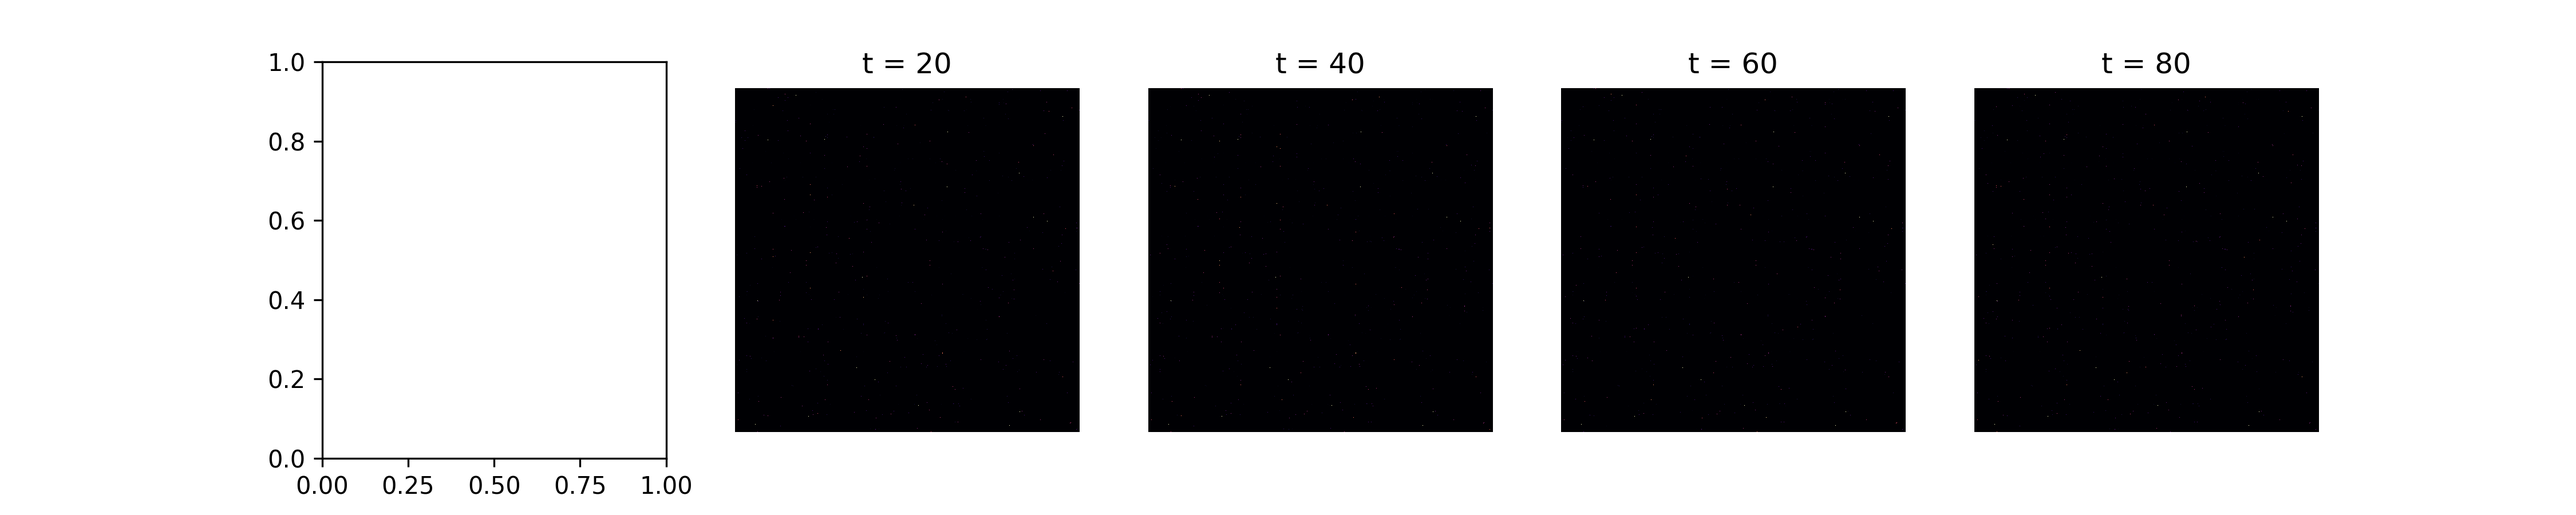
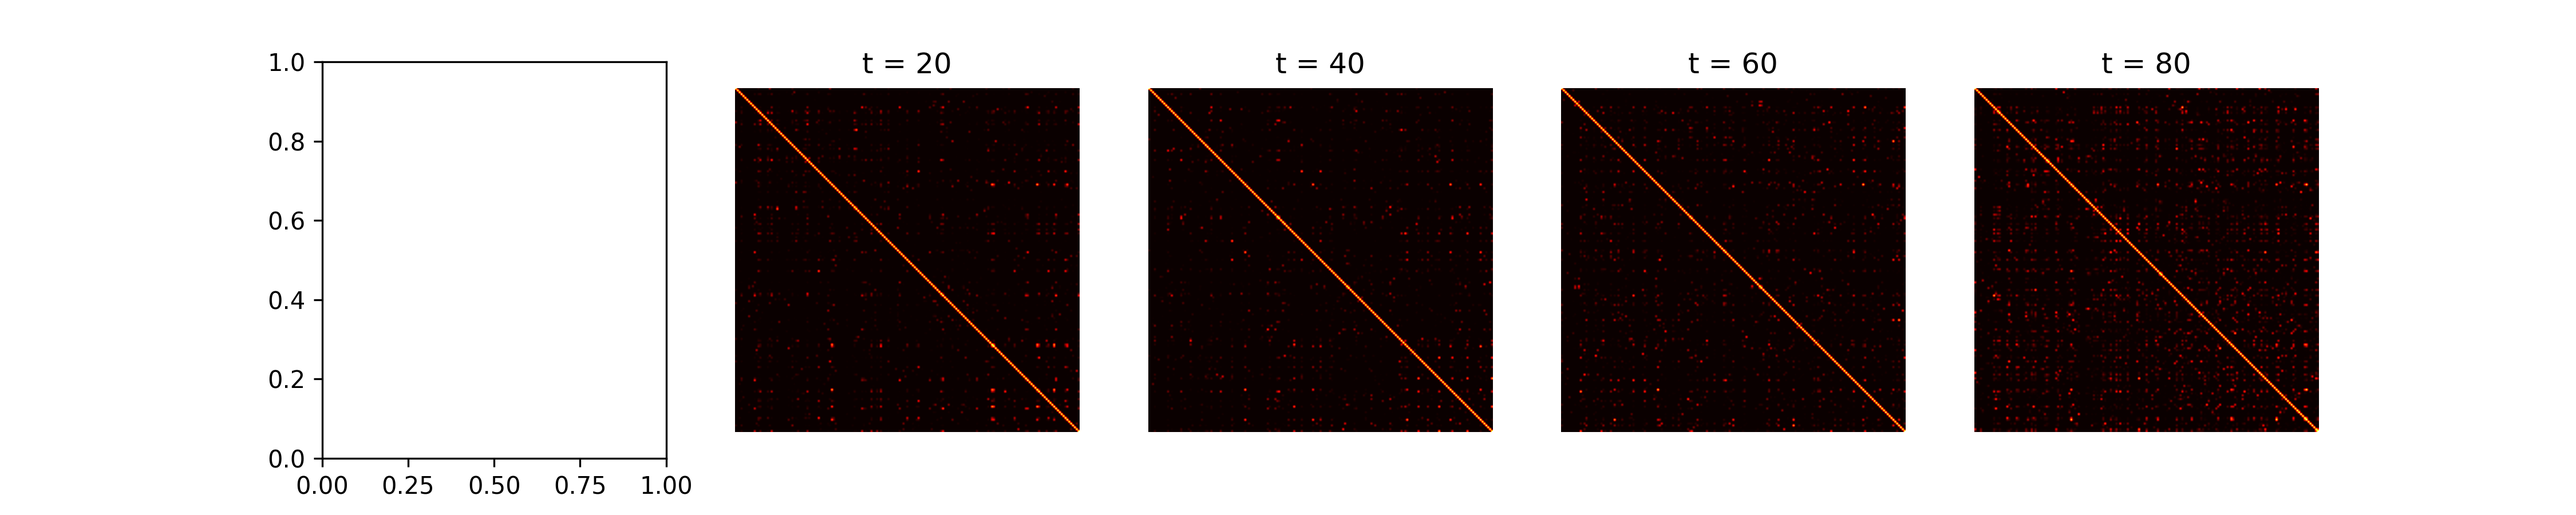
visulize

diff --git a/src/function_gread.py b/src/function_gread.py
@@ -52,6 +52,20 @@ class ODEFuncGread(ODEFunc):
       ax = torch_sparse.spmm(self.edge_index, self.edge_weight, x.shape[0], x.shape[0], x)
     return ax
   
+  def calculate_gauss_kernel_dense(self, x):
+    n = x.size(0)  # 节点数量
+    d = x.size(1)  # 特征维度
+    # 扩展并计算所有节点对之间的差值
+    x_expanded = x.unsqueeze(0).repeat(n, 1, 1)  # 形状 (n, n, d)
+    diff = x_expanded - x.unsqueeze(1)  # 形状 (n, n, d)
+    # 计算平方距离矩阵
+    sq_dist = torch.sum(diff ** 2, dim=-1)  # 形状 (n, n)
+    # 使用向量化计算高斯核矩阵
+    factor = 1 / ((4 * math.pi * self.epsilon ** 2) ** (d / 2))
+    exponent = torch.exp(-sq_dist / (4 * self.epsilon ** 2))
+    kernel = factor * exponent
+    return kernel
+  
   def calculate_log_kernel(self, x):  # x: [2485, 64]
     Log_Kernel = SpGraphlogKernelLayer(self.in_features, self.out_features, self.opt, self.device).to(self.device)
     n = x.shape[0]  # number of nodes
@@ -62,8 +76,6 @@ class ODEFuncGread(ODEFunc):
   def calculate_gat_kernel(self, x):
     GAT_Kernel = SpGraphAttentionLayer(self.in_features, self.out_features, self.opt, self.device).to(self.device)
     k = GAT_Kernel(x, self.edge_index)  # torch.Size([10138, 1])
-    self.kernel =  torch.sparse_coo_tensor(self.edge_index, k.squeeze(-1), (x.shape[0], x.shape[0]), requires_grad=False).to('cpu')
-    # 使用更高效的计算方式代替 torch.stack 和 torch_sparse.spmm
     kx = torch.zeros_like(x)
     for idx in range(k.shape[1]):
         kx += torch_sparse.spmm(self.edge_index, k[:, idx], x.shape[0], x.shape[0], x)
@@ -163,12 +175,14 @@ class ODEFuncGread(ODEFunc):
       
     elif self.opt['reaction_term'] =='aggdiff-gat':
       kx = self.calculate_gat_kernel(x)  # torch.Size([2485, 64])
+      # self.kernel =  torch.sparse_coo_tensor(self.edge_index, k.squeeze(-1), (x.shape[0], x.shape[0]), requires_grad=False).to('cpu')
       # print(f'After calculate_gat_kernel: {torch.cuda.memory_allocated() / 1024 ** 2} MB')  # monitor GPU memory usage
       reaction =  (ax-x)*kx
       
       
     elif self.opt['reaction_term'] =='aggdiff-gauss':
       kx = self.calculate_gauss_kernel(x)  # torch.Size([2485, 2485])
+      # self.k_dense = self.calculate_gauss_kernel_dense(x).to('cpu')  # torch.Size([2485, 2485])
       reaction = (ax-x)*kx  # 1e-4 is a hyperparameter to avoid gradient explosion
       
     elif self.opt['reaction_term'].split('_')[0] == 'exp':

diff --git a/src/visulization-attention.py b/src/visulization-attention.py
@@ -27,7 +27,7 @@ def plot_grid(grid, time_step, ax):
         time_step (int): 当前的时间步。
         ax (matplotlib.axes.Axes): 用于绘制网格的 Axes 对象。
     """
-    ax.imshow(grid, cmap='magma', interpolation='nearest')   # nearest: no smoothing
+    ax.imshow(grid, cmap='hot', interpolation='bilinear')   # nearest: no smoothing
     ax.set_title(f"t = {time_step}")
     ax.axis('off')
     plt.show()
@@ -315,7 +315,7 @@ def main(cmd_opt):
             
             # get kernel in aggeragation diffusion models
             if opt['reaction_term'] in ['aggdiff-log', 'aggdiff-gat', 'aggdiff-gauss']:
-                kernel = model.odeblock.odefunc.kernel.detach().to_dense().numpy()
+                kernel = model.odeblock.odefunc.k_dense.detach().to_dense().numpy()
 
             tmp_train_acc, tmp_val_acc, tmp_test_acc = this_test(model, data, pos_encoding, opt)
 

diff --git a/src/run_GNN_sweep.py b/src/run_GNN_sweep.py
@@ -483,7 +483,7 @@ if __name__ == '__main__':
                         help="attention,pos_distance, z_distance, pos_distance_QK, z_distance_QK")
     
     # gread args
-    parser.add_argument('--reaction_term', type=str, default='aggdiff-gat', help='bspm, fisher, allen-cahn')
+    parser.add_argument('--reaction_term', type=str, default='bspm', help='bspm, fisher, allen-cahn')
     parser.add_argument('--beta_diag', type=eval, default=False)
     
     # with source term args

diff --git a/src/run_GNN.py b/src/run_GNN.py
@@ -310,7 +310,6 @@ def main(cmd_opt):
                 f"forward nfe {model.fm.sum}, backward nfe {model.bm.sum}, "
                 f"tmp_train: {tmp_train_acc:.4f}, tmp_val: {tmp_val_acc:.4f}, tmp_test: {tmp_test_acc:.4f}, "
                 f"Train: {train_acc:.4f}, Val: {val_acc:.4f}, Test: {test_acc:.4f}, Best time: {best_time:.4f}")
-            torch.cuda.empty_cache()    # clear memory
             
             if np.isnan(loss):
                 wandb_run.finish()
